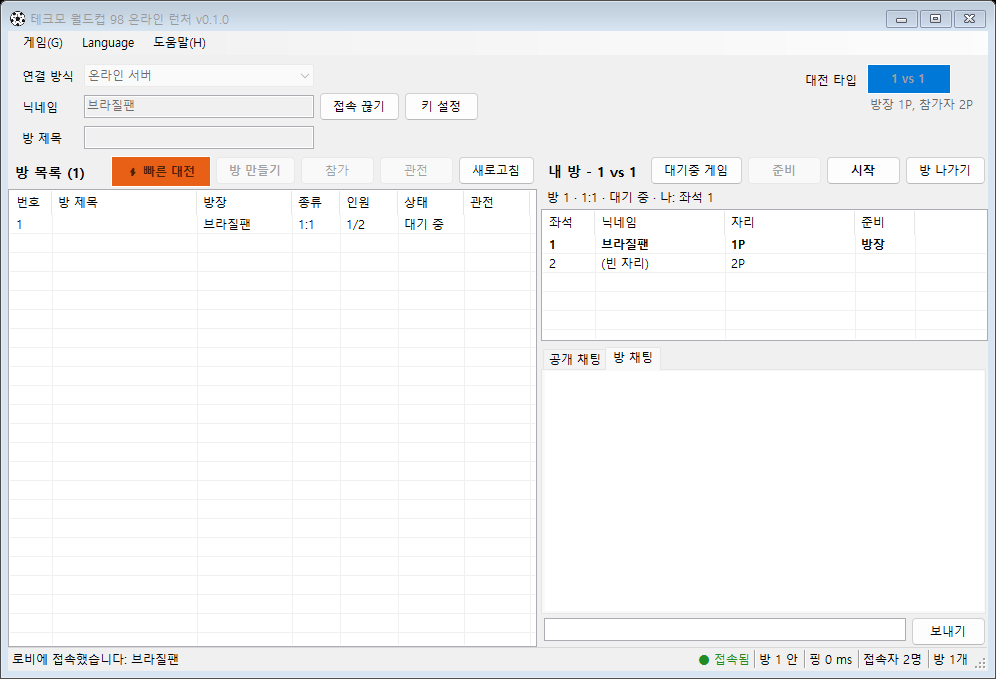
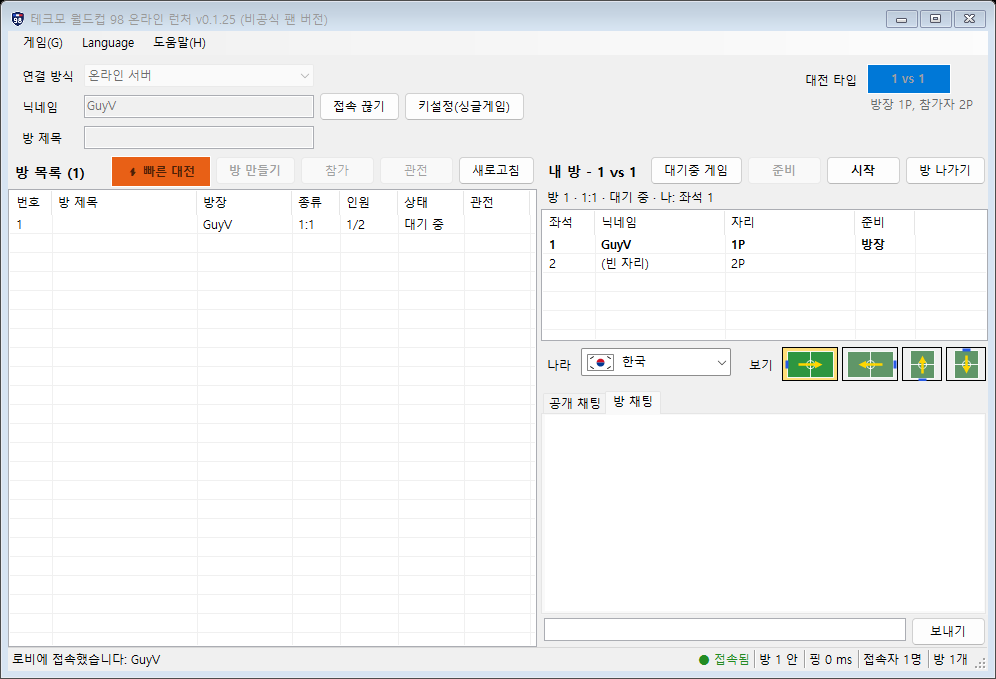
v0.1.25: country and view pick, own view per player, auto start

diff --git a/index.html b/index.html
@@ -71,7 +71,7 @@
     <div class="head rv">
       <p class="kicker">FEATURES</p>
       <h2 data-en="Coin, start, kick-off">코인 넣고, 시작 누르고, 킥오프</h2>
-      <p class="sub" data-en="Both players reach the team select together. Each picks their own country, and the 1P-vs-2P match plays the same on both PCs.">두 사람이 함께 팀 선택 화면에 도착합니다. 나라는 각자 고르고, 1P 대 2P 친선 경기가 두 PC에서 똑같이 진행됩니다.</p>
+      <p class="sub" data-en="Both players reach the team select together. Each brings their own country and view, and the 1P-vs-2P match plays the same on both PCs.">두 사람이 함께 팀 선택 화면에 도착합니다. 나라와 보기는 각자 고르고, 1P 대 2P 친선 경기가 두 PC에서 똑같이 진행됩니다.</p>
     </div>
 
     <ul class="feat">
@@ -88,8 +88,12 @@
         <p data-en="The launcher tunes itself to both connections, even during the match. Inputs also go by UDP, several frames at a time, so a lost packet no longer holds the game, and after a wait the game does not rush to catch up. A bar under the picture shows each side's device (keyboard or pad), 1P/2P, name and ping, with the delay and UDP/TCP in the middle.">두 사람의 회선에 맞춰 런처가 알아서 조절합니다. 경기 중에도 계속. 입력을 UDP로 몇 프레임씩 겹쳐 보내서 패킷 하나가 사라져도 멈칫하지 않고, 잠깐 기다린 뒤에도 빨라졌다 느려지는 출렁임이 없습니다. 화면 아래 막대에 양쪽의 입력 장치(키보드/패드), 1P/2P, 닉네임, 핑이 나오고 가운데에 딜레이와 UDP/TCP가 나옵니다.</p>
       </li>
       <li class="rv">
+        <h3 data-en="My country, my view">내 나라, 내 화면</h3>
+        <p data-en="Pick your country by its flag in the launcher, and how you see the pitch from four pictures: side view (attacking left to right or right to left) or end view (attacking up or down). Each player sees their own pick, and the arrow keys turn with it. Goal replays and the final whistle show the game's own side view.">런처에서 국기를 보고 나라를 고르고, 그림 4개 중에서 보기를 고릅니다. 가로(왼쪽→오른쪽 / 오른쪽→왼쪽 공격) 또는 세로(아래→위 / 위→아래 공격). 두 사람이 각자 고른 화면으로 보고, 방향키도 그 화면에 맞게 돌아갑니다. 골 리플레이와 경기 종료 장면은 게임 기본 가로 화면으로 나옵니다.</p>
+      </li>
+      <li class="rv">
         <h3 data-en="Straight to the team select">팀 선택까지 자동</h3>
-        <p data-en="Coins and starts are played for you; a notice asks everybody to wait until the team select. From there, it is your game. After a match the next one follows — close the game window to stop.">코인과 시작 버튼은 런처가 알아서 누릅니다. 팀 선택 화면부터는 직접 하면 됩니다. 경기가 끝나면 창이 닫히지 않고 다음 경기로 이어지고, 그만할 때는 게임 창을 닫으면 됩니다.</p>
+        <p data-en="When everybody is ready the match starts by itself 3 s later. Coins and starts are played for you, and the country you picked in the launcher is chosen for you (or pick it yourself in the game). After a match the next one follows — close the game window to stop.">모두 준비하면 3초 뒤 자동으로 시작합니다. 코인과 시작 버튼은 런처가 누르고, 런처에서 고른 나라도 알아서 선택됩니다(직접 고르기도 가능). 경기가 끝나면 창이 닫히지 않고 다음 경기로 이어지고, 그만할 때는 게임 창을 닫으면 됩니다.</p>
       </li>
       <li class="rv">
         <h3 data-en="Watch any match">관전</h3>
@@ -137,12 +141,12 @@
       </li>
       <li class="rv">
         <h3 data-en="Ready, then kick-off">준비, 그리고 킥오프</h3>
-        <p data-en="Create a room or join one. When the other player is ready, the host starts — host 1P, joiner 2P.">[방 만들기] 또는 [참가]. 상대가 [준비]하면 방장이 [시작]합니다. 방장은 1P, 참가자는 2P입니다.</p>
+        <p data-en="Pick your country and view, then create a room or join one. When everybody is ready the match starts by itself — host 1P, joiner 2P.">나라와 보기를 고르고 [방 만들기] 또는 [참가]. 모두 [준비]하면 자동으로 시작합니다. 방장은 1P, 참가자는 2P입니다.</p>
       </li>
     </ol>
     <figure class="launcher rv">
-      <img src="shot_launcher.png" width="996" height="679" alt="TWC launcher: room list, my room (1P host, 2P open) and chat" loading="lazy">
-      <figcaption data-en="The launcher: room list on the left, your room and chat on the right">런처: 왼쪽은 방 목록, 오른쪽은 내 방과 채팅</figcaption>
+      <img src="shot_launcher.png" width="996" height="679" alt="TWC launcher: room list, my room (1P host, 2P open), country and view pick, chat" loading="lazy">
+      <figcaption data-en="The launcher: room list on the left; your room, country and view pick and chat on the right">런처: 왼쪽은 방 목록, 오른쪽은 내 방, 나라·보기 선택, 채팅</figcaption>
     </figure>
     </div>
 
